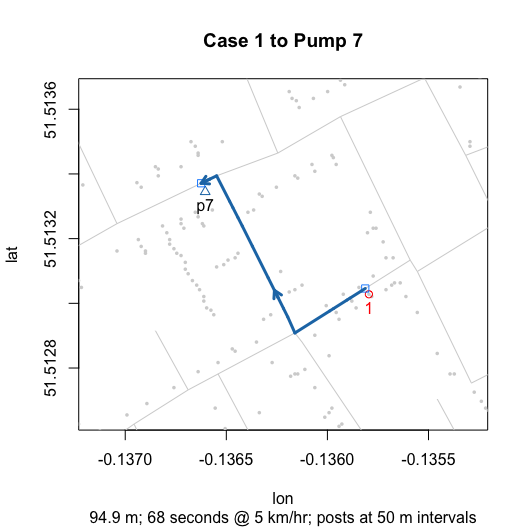
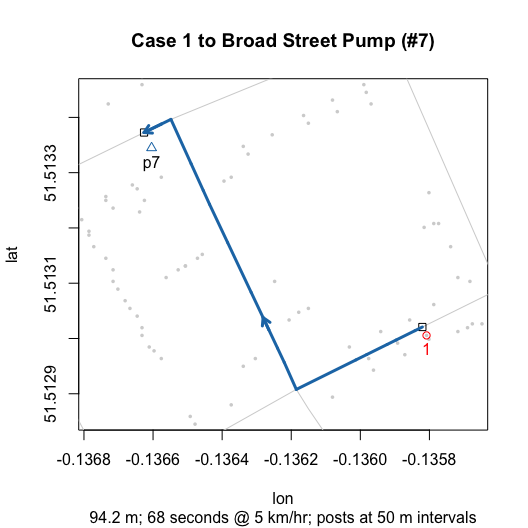
use walkingPathB() in README

diff --git a/README.md b/README.md
@@ -1,7 +1,7 @@
 
 <!-- README.md is generated from README.Rmd. Please edit that file -->
 [![CRAN\_Status\_Badge](http://www.r-pkg.org/badges/version/cholera)](https://cran.r-project.org/package=cholera)
-[![GitHub\_Status\_Badge](https://img.shields.io/badge/GitHub-0.8.0.9232-red.svg)](https://github.com/lindbrook/cholera/blob/master/NEWS.md)
+[![GitHub\_Status\_Badge](https://img.shields.io/badge/GitHub-0.8.0.9233-red.svg)](https://github.com/lindbrook/cholera/blob/master/NEWS.md)
 ## cholera: amend, augment and aid analysis of Snow’s cholera map
 
 #### package features
@@ -254,8 +254,8 @@ snowMap(latlong = TRUE)
 <img src="man/figures/README-latlong-1.png" width="50%" />
 
 ``` r
-plot(latlongWalkingPath())
-plot(walkingPath())  # Dodson and Tobler native scale for comparison
+plot(walkingPathB(latlong = TRUE))
+plot(walkingPathB())  # Dodson and Tobler native scale for comparison
 ```
 
 <img src="man/figures/README-latlong_walking_path-1.png" width="50%" /><img src="man/figures/README-latlong_walking_path-2.png" width="50%" />

diff --git a/NEWS.md b/NEWS.md
@@ -1,3 +1,8 @@
+### cholera 0.8.0.9233
+
+- use walkingPathB() in README.
+
+
 ### cholera 0.8.0.9232
 
 - remove parallel code from neighborhoodDataB().
